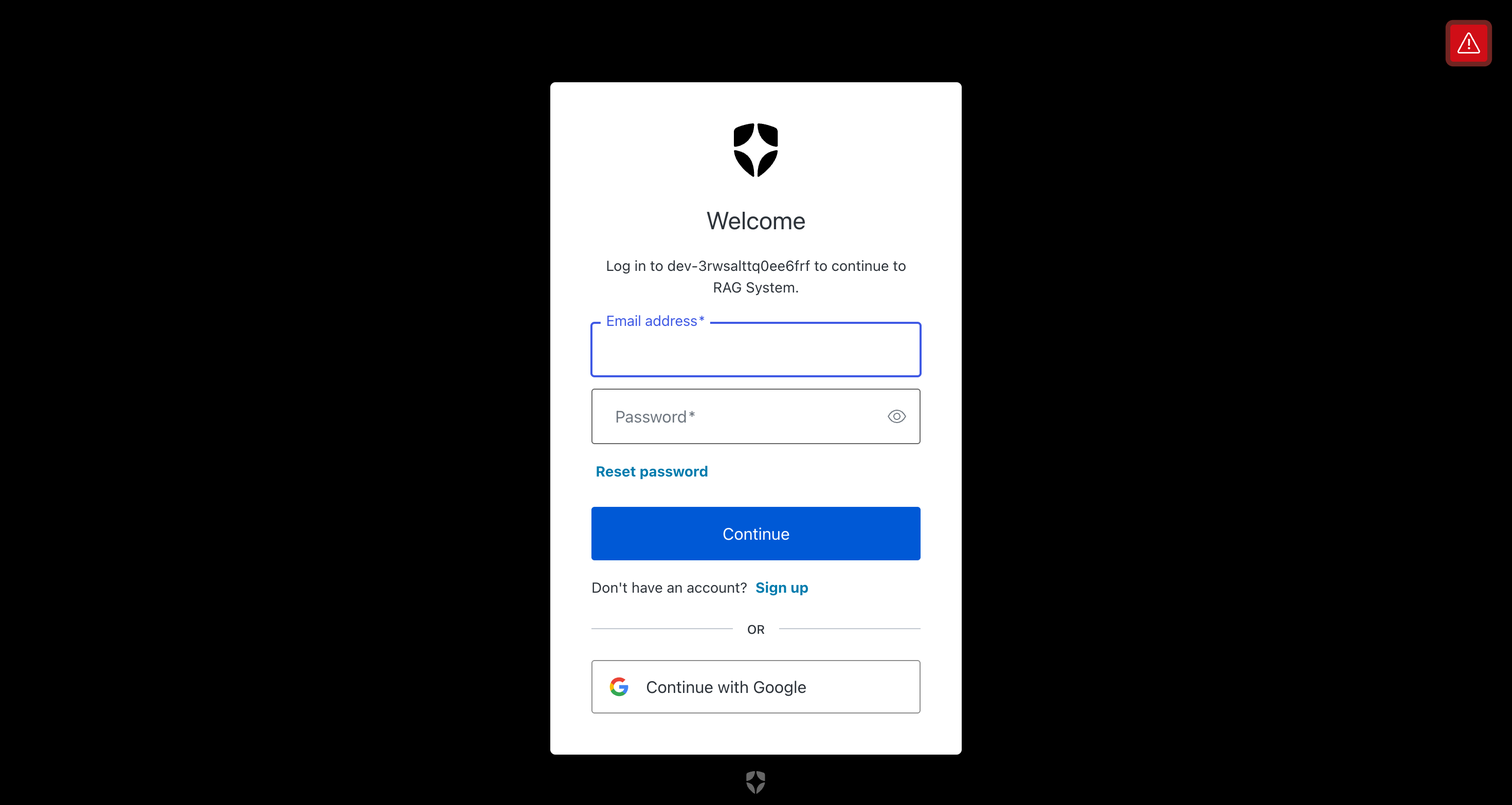
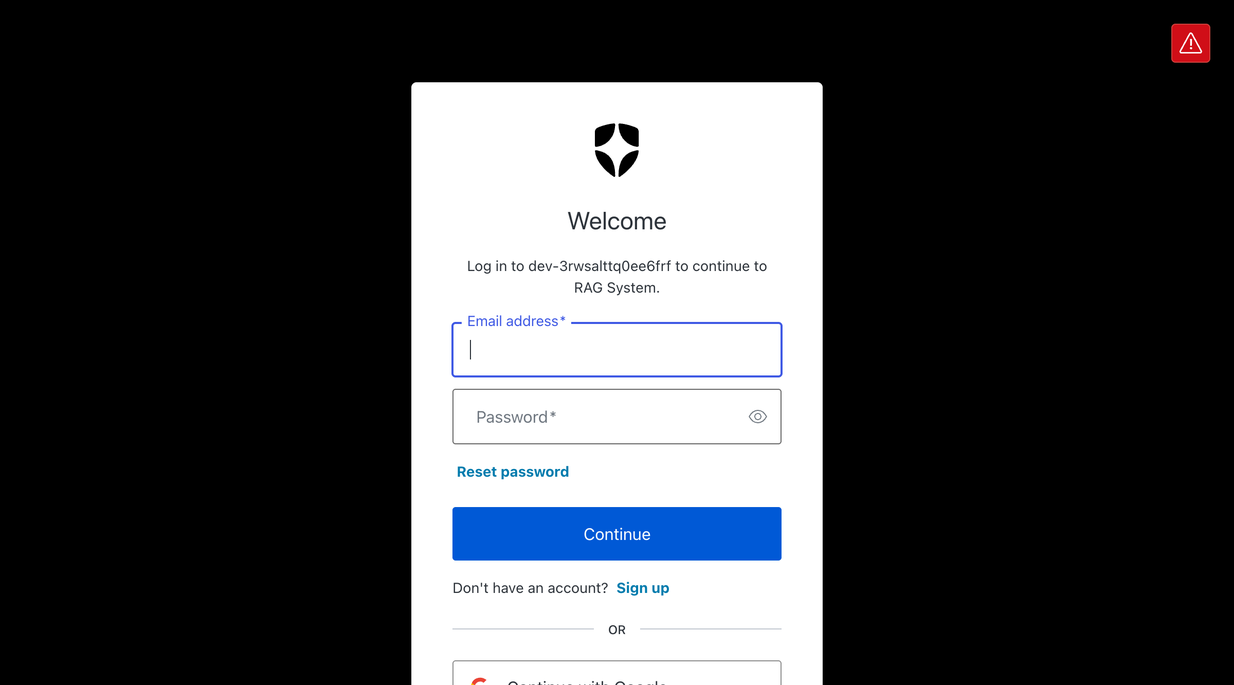
docs: update OIDC groups claim pipeline docs and screenshots (8 languages)
- Add Auth0 namespaced claims note (https://rag-system/groups) to Pattern D
- Update troubleshooting: namespaced claims, PostConfirmation custom attributes
- Add OIDC groups pipeline and AdminGetUser fallback to verification results
- Refresh screenshots: signin page, Auth0 login, OIDC signin success
- All 8 languages updated: ja, en, ko, zh-CN, zh-TW, fr, de, es

Changed region(s): [[0.3125, 0.0923, 0.6875, 1.0], [0.9375, 0.0, 1.0, 0.0923]]

diff --git a/docs/auth-and-user-management.md b/docs/auth-and-user-management.md
@@ -286,6 +286,19 @@ LDAPサーバーへの直接接続なしで、OIDCトークンのグループク
 
 この場合、IdP側でトークンに `groups` クレームを含める設定が必要です。
 
+> **Auth0利用時の重要な注意点**: Auth0のOIDC準拠アプリケーションでは、IDトークンのカスタムクレームに名前空間（URL prefix）が必要です。名前空間なしの `groups` クレームはIDトークンから自動的に除外されます。Auth0のPost Login Actionで以下のように名前空間付きクレームを設定してください:
+>
+> ```javascript
+> // Auth0 Post Login Action
+> exports.onExecutePostLogin = async (event, api) => {
+>   const groups = ['developers', 'rag-users']; // ユーザーのグループ
+>   api.idToken.setCustomClaim('https://rag-system/groups', groups);
+>   api.accessToken.setCustomClaim('https://rag-system/groups', groups);
+> };
+> ```
+>
+> CDK側の `groupClaimName` は `groups` のままで構いません。CDKが自動的に `https://rag-system/groups` → `custom:oidc_groups` の属性マッピングを設定します。
+
 ### パターンE: SAML + OIDC ハイブリッド
 
 既存のAD SAML Federationに加えて、OIDC IdPも同時に有効化するパターンです。
@@ -443,8 +456,9 @@ Match -> ALLOW, No match -> DENY
 | LDAP権限取得失敗 | LDAP接続エラー | CloudWatch LogsでIdentity Sync Lambdaのエラーを確認。サインイン自体はブロックされない（Fail-Open） |
 | ADグループ変更が反映されない | SIDキャッシュ（24時間） | 24時間待つか、DynamoDBの該当レコードを削除して再サインイン |
 | AD Sync Lambda タイムアウト | SSM経由のPowerShell実行が遅い | `SSM_TIMEOUT` 環境変数を増やす（デフォルト60秒） |
-| OIDCグループが取得できない | IdP側でグループクレーム未設定 | IdP側でトークンに `groups` クレームを含める設定を確認。`groupClaimName` パラメータの一致を確認 |
+| OIDCグループが取得できない | IdP側でグループクレーム未設定、または名前空間なしクレーム | Auth0等のOIDC準拠IdPでは、IDトークンのカスタムクレームに名前空間（URL prefix）が必要。Auth0の場合、Post Login Actionで `api.idToken.setCustomClaim('https://rag-system/groups', groups)` のように名前空間付きクレームを設定し、Cognito属性マッピングも `https://rag-system/groups` → `custom:oidc_groups` に合わせる |
 | OIDCサインイン後にDynamoDBに権限データが登録されない | Post-Auth TriggerまたはIdentity Sync Lambdaが未作成 | `oidcProviderConfig` を指定してCDKデプロイすると自動的にIdentity Sync LambdaとPost-Auth Triggerが作成される。CloudWatch LogsでLambdaの実行ログを確認 |
+| PostConfirmation triggerでカスタム属性が空 | Cognitoの仕様でPostConfirmationイベントにカスタム属性が含まれない場合がある | Identity Sync LambdaにはCognito AdminGetUser APIフォールバックが実装済み。Lambda実行ロールに `cognito-idp:AdminGetUser` 権限が付与されていることを確認 |
 | OAuthコールバックエラー（OIDC構成） | `cloudFrontUrl` 未設定 | OIDC構成でも `cloudFrontUrl` が必要。`cdk.context.json` に設定して再デプロイ |
 
 ---
@@ -464,6 +478,8 @@ OIDC/LDAP Federation機能追加後の検証結果:
 - Auth0 SSO: ✅ 2回目のサインインで再認証不要
 - Post-Auth Trigger: ✅ PostConfirmationトリガー追加により、OIDC IdP経由の初回サインインでもIdentity Sync Lambdaが発火
 - DynamoDB自動保存: ✅ `source: "OIDC-Claims"`, `authSource: "oidc"` でレコード作成確認
+- OIDCグループクレームパイプライン: ✅ Auth0 Post Login Action → 名前空間付きクレーム(`https://rag-system/groups`) → Cognito `custom:oidc_groups` → Identity Sync Lambda → DynamoDB `oidcGroups: ["developers","rag-users"]`
+- Cognito AdminGetUser APIフォールバック: ✅ PostConfirmation triggerでカスタム属性が未含の場合、Cognito APIから直接取得して正常動作
 - 後方互換性: ✅ 既存SAML AD Federationサインイン正常動作
 - ユニットテスト: ✅ 130テスト全パス
 - プロパティテスト: ✅ 52テスト全パス（17プロパティ、numRuns=20）

diff --git a/docs/fr/auth-and-user-management.md b/docs/fr/auth-and-user-management.md
@@ -238,6 +238,19 @@ Chaque méthode d'authentification est automatiquement activée lorsque sa confi
 }
 ```
 
+> **Note importante pour les utilisateurs Auth0** : Les applications conformes OIDC d'Auth0 exigent que les claims personnalisés dans les ID tokens utilisent un espace de noms (préfixe URL). Les claims `groups` sans espace de noms sont silencieusement supprimés des ID tokens. Configurez votre Auth0 Post Login Action avec des claims à espace de noms :
+>
+> ```javascript
+> // Auth0 Post Login Action
+> exports.onExecutePostLogin = async (event, api) => {
+>   const groups = ['developers', 'rag-users']; // Groupes de l'utilisateur
+>   api.idToken.setCustomClaim('https://rag-system/groups', groups);
+>   api.accessToken.setCustomClaim('https://rag-system/groups', groups);
+> };
+> ```
+>
+> Le `groupClaimName` CDK peut rester `groups`. CDK configure automatiquement le mappage d'attributs `https://rag-system/groups` → `custom:oidc_groups`.
+
 ### Modèle E : Hybride SAML + OIDC
 
 ```json
@@ -342,8 +355,9 @@ Match -> ALLOW, No match -> DENY
 | Échec de la récupération des permissions LDAP | Erreur de connexion LDAP | Vérifier les erreurs d'Identity Sync Lambda dans CloudWatch Logs. La connexion n'est pas bloquée (Fail-Open) |
 | Les modifications de groupe AD ne sont pas reflétées | Cache SID (24 heures) | Attendre 24 heures ou supprimer l'enregistrement concerné dans DynamoDB et se reconnecter |
 | Délai d'expiration AD Sync Lambda | L'exécution PowerShell via SSM est lente | Augmenter la variable d'environnement `SSM_TIMEOUT` (par défaut : 60 secondes) |
-| Groupes OIDC non récupérés | Claim de groupe non configuré dans l'IdP | Vérifier que l'IdP inclut le claim `groups` dans le jeton. Vérifier le paramètre `groupClaimName` |
+| Groupes OIDC non récupérés | Claim de groupe non configuré dans l'IdP, ou claims sans espace de noms | Les IdP conformes OIDC comme Auth0 exigent des claims personnalisés avec espace de noms dans les ID tokens. Pour Auth0, utilisez `api.idToken.setCustomClaim('https://rag-system/groups', groups)` dans un Post Login Action, et assurez-vous que le mappage d'attributs Cognito correspond à `https://rag-system/groups` → `custom:oidc_groups` |
 | Données de permissions non enregistrées dans DynamoDB après connexion OIDC | Post-Auth Trigger ou Identity Sync Lambda non créé | Le déploiement CDK avec `oidcProviderConfig` crée automatiquement l'Identity Sync Lambda et le Post-Auth Trigger. Vérifier les logs d'exécution Lambda dans CloudWatch Logs |
+| Attributs personnalisés vides dans le trigger PostConfirmation | Cognito peut ne pas inclure les attributs personnalisés dans l'événement PostConfirmation | L'Identity Sync Lambda inclut un mécanisme de repli via l'API Cognito AdminGetUser. Vérifier que le rôle d'exécution Lambda dispose de la permission `cognito-idp:AdminGetUser` |
 | Erreur de callback OAuth (configuration OIDC) | `cloudFrontUrl` non défini | `cloudFrontUrl` est également requis pour la configuration OIDC. Définir dans `cdk.context.json` et redéployer |
 
 ---
@@ -358,6 +372,8 @@ Match -> ALLOW, No match -> DENY
 - Flux d'authentification OIDC : ✅ Succès de bout en bout
 - Post-Auth Trigger : ✅ PostConfirmation
 - Sauvegarde automatique DynamoDB : ✅ OIDC-Claims
+- Pipeline de claims de groupes OIDC : ✅ Auth0 Post Login Action → claim avec espace de noms (`https://rag-system/groups`) → Cognito `custom:oidc_groups` → Identity Sync Lambda → DynamoDB `oidcGroups: ["developers","rag-users"]`
+- Repli API Cognito AdminGetUser : ✅ Lorsque l'événement du trigger PostConfirmation ne contient pas les attributs personnalisés, Lambda les récupère via l'API Cognito
 - Tests unitaires : ✅ 130 réussis
 - Tests de propriétés : ✅ 52 réussis
 

diff --git a/docs/ko/auth-and-user-management.md b/docs/ko/auth-and-user-management.md
@@ -238,6 +238,19 @@ OIDC 사용자가 로그인하면 다음이 모두 자동으로 수행됩니다:
 }
 ```
 
+> **Auth0 사용 시 중요 참고 사항**: Auth0의 OIDC 준수 애플리케이션에서는 ID 토큰의 커스텀 클레임에 네임스페이스(URL prefix)가 필요합니다. 네임스페이스 없는 `groups` 클레임은 ID 토큰에서 자동으로 제외됩니다. Auth0의 Post Login Action에서 다음과 같이 네임스페이스가 포함된 클레임을 설정하세요:
+>
+> ```javascript
+> // Auth0 Post Login Action
+> exports.onExecutePostLogin = async (event, api) => {
+>   const groups = ['developers', 'rag-users']; // 사용자의 그룹
+>   api.idToken.setCustomClaim('https://rag-system/groups', groups);
+>   api.accessToken.setCustomClaim('https://rag-system/groups', groups);
+> };
+> ```
+>
+> CDK 측의 `groupClaimName`은 `groups`로 유지하면 됩니다. CDK가 자동으로 `https://rag-system/groups` → `custom:oidc_groups` 속성 매핑을 설정합니다.
+
 ### 패턴 E: SAML + OIDC 하이브리드
 
 ```json
@@ -342,8 +355,9 @@ Match -> ALLOW, No match -> DENY
 | LDAP 권한 취득 실패 | LDAP 연결 오류 | CloudWatch Logs에서 Identity Sync Lambda 오류를 확인. 로그인 자체는 차단되지 않음 (Fail-Open) |
 | AD 그룹 변경이 반영되지 않음 | SID 캐시 (24시간) | 24시간 대기하거나 DynamoDB의 해당 레코드를 삭제하고 재로그인 |
 | AD Sync Lambda 타임아웃 | SSM 경유 PowerShell 실행이 느림 | `SSM_TIMEOUT` 환경 변수를 늘림 (기본값: 60초) |
-| OIDC 그룹이 취득되지 않음 | IdP 측에서 그룹 클레임 미설정 | IdP 측에서 토큰에 `groups` 클레임을 포함하는 설정을 확인. `groupClaimName` 파라미터의 일치를 확인 |
+| OIDC 그룹이 취득되지 않음 | IdP 측에서 그룹 클레임 미설정 또는 네임스페이스 없는 클레임 | Auth0 등의 OIDC 준수 IdP에서는 ID 토큰의 커스텀 클레임에 네임스페이스(URL prefix)가 필요. Auth0의 경우 Post Login Action에서 `api.idToken.setCustomClaim('https://rag-system/groups', groups)`와 같이 네임스페이스가 포함된 클레임을 설정하고, Cognito 속성 매핑도 `https://rag-system/groups` → `custom:oidc_groups`에 맞춤 |
 | OIDC 로그인 후 DynamoDB에 권한 데이터가 등록되지 않음 | Post-Auth Trigger 또는 Identity Sync Lambda가 미생성 | `oidcProviderConfig`를 지정하여 CDK를 배포하면 Identity Sync Lambda와 Post-Auth Trigger가 자동 생성됨. CloudWatch Logs에서 Lambda 실행 로그 확인 |
+| PostConfirmation 트리거에서 커스텀 속성이 비어 있음 | Cognito 사양상 PostConfirmation 이벤트에 커스텀 속성이 포함되지 않는 경우가 있음 | Identity Sync Lambda에는 Cognito AdminGetUser API 폴백이 구현되어 있음. Lambda 실행 역할에 `cognito-idp:AdminGetUser` 권한이 부여되어 있는지 확인 |
 | OAuth 콜백 오류 (OIDC 구성) | `cloudFrontUrl` 미설정 | OIDC 구성에서도 `cloudFrontUrl`이 필요. `cdk.context.json`에 설정하고 재배포 |
 
 ---
@@ -358,6 +372,8 @@ Match -> ALLOW, No match -> DENY
 - OIDC 인증 플로우: ✅ 엔드투엔드 성공
 - Post-Auth Trigger: ✅ PostConfirmation
 - DynamoDB 자동 저장: ✅ OIDC-Claims
+- OIDC 그룹 클레임 파이프라인: ✅ Auth0 Post Login Action → 네임스페이스 클레임(`https://rag-system/groups`) → Cognito `custom:oidc_groups` → Identity Sync Lambda → DynamoDB `oidcGroups: ["developers","rag-users"]`
+- Cognito AdminGetUser API 폴백: ✅ PostConfirmation 트리거 이벤트에 커스텀 속성이 미포함 시 Cognito API에서 직접 취득하여 정상 동작
 - 유닛 테스트: ✅ 130 패스
 - 프로퍼티 테스트: ✅ 52 패스
 

diff --git a/docs/es/auth-and-user-management.md b/docs/es/auth-and-user-management.md
@@ -238,6 +238,19 @@ Cada método de autenticación se activa automáticamente cuando se proporciona 
 }
 ```
 
+> **Nota importante para usuarios de Auth0**: Las aplicaciones compatibles con OIDC de Auth0 requieren que los claims personalizados en los ID tokens utilicen un espacio de nombres (prefijo URL). Los claims `groups` sin espacio de nombres se eliminan silenciosamente de los ID tokens. Configure su Auth0 Post Login Action con claims con espacio de nombres:
+>
+> ```javascript
+> // Auth0 Post Login Action
+> exports.onExecutePostLogin = async (event, api) => {
+>   const groups = ['developers', 'rag-users']; // Grupos del usuario
+>   api.idToken.setCustomClaim('https://rag-system/groups', groups);
+>   api.accessToken.setCustomClaim('https://rag-system/groups', groups);
+> };
+> ```
+>
+> El `groupClaimName` de CDK puede permanecer como `groups`. CDK configura automáticamente el mapeo de atributos `https://rag-system/groups` → `custom:oidc_groups`.
+
 ### Patrón E: Híbrido SAML + OIDC
 
 ```json
@@ -342,8 +355,9 @@ Match -> ALLOW, No match -> DENY
 | Fallo en la obtención de permisos LDAP | Error de conexión LDAP | Verificar los errores de Identity Sync Lambda en CloudWatch Logs. El inicio de sesión no se bloquea (Fail-Open) |
 | Los cambios de grupo AD no se reflejan | Caché SID (24 horas) | Esperar 24 horas o eliminar el registro correspondiente en DynamoDB e iniciar sesión de nuevo |
 | Tiempo de espera agotado en AD Sync Lambda | La ejecución de PowerShell a través de SSM es lenta | Aumentar la variable de entorno `SSM_TIMEOUT` (predeterminado: 60 segundos) |
-| Grupos OIDC no obtenidos | Claim de grupo no configurado en el IdP | Verificar que el IdP incluya el claim `groups` en el token. Verificar el parámetro `groupClaimName` |
+| Grupos OIDC no obtenidos | Claim de grupo no configurado en el IdP, o claims sin espacio de nombres | Los IdP compatibles con OIDC como Auth0 requieren claims personalizados con espacio de nombres en los ID tokens. Para Auth0, use `api.idToken.setCustomClaim('https://rag-system/groups', groups)` en un Post Login Action, y asegúrese de que el mapeo de atributos de Cognito coincida con `https://rag-system/groups` → `custom:oidc_groups` |
 | Datos de permisos no registrados en DynamoDB después del inicio de sesión OIDC | Post-Auth Trigger o Identity Sync Lambda no creado | Desplegar CDK con `oidcProviderConfig` crea automáticamente el Identity Sync Lambda y el Post-Auth Trigger. Verificar los logs de ejecución Lambda en CloudWatch Logs |
+| Atributos personalizados vacíos en el trigger PostConfirmation | Cognito puede no incluir atributos personalizados en el evento PostConfirmation | Identity Sync Lambda incluye un mecanismo de respaldo mediante la API Cognito AdminGetUser. Verificar que el rol de ejecución Lambda tenga el permiso `cognito-idp:AdminGetUser` |
 | Error de callback OAuth (configuración OIDC) | `cloudFrontUrl` no configurado | `cloudFrontUrl` también es necesario para la configuración OIDC. Configurar en `cdk.context.json` y redesplegar |
 
 ---
@@ -358,6 +372,8 @@ Match -> ALLOW, No match -> DENY
 - Flujo de autenticación OIDC: ✅ Éxito de extremo a extremo
 - Post-Auth Trigger: ✅ PostConfirmation
 - Guardado automático en DynamoDB: ✅ OIDC-Claims
+- Pipeline de claims de grupos OIDC: ✅ Auth0 Post Login Action → claim con espacio de nombres (`https://rag-system/groups`) → Cognito `custom:oidc_groups` → Identity Sync Lambda → DynamoDB `oidcGroups: ["developers","rag-users"]`
+- Respaldo API Cognito AdminGetUser: ✅ Cuando el evento del trigger PostConfirmation no contiene atributos personalizados, Lambda los obtiene a través de la API de Cognito
 - Pruebas unitarias: ✅ 130 aprobadas
 - Pruebas de propiedades: ✅ 52 aprobadas
 

diff --git a/docs/de/auth-and-user-management.md b/docs/de/auth-and-user-management.md
@@ -238,6 +238,19 @@ Jede Authentifizierungsmethode wird automatisch aktiviert, wenn ihre Konfigurati
 }
 ```
 
+> **Wichtiger Hinweis für Auth0-Benutzer**: OIDC-konforme Anwendungen von Auth0 erfordern, dass benutzerdefinierte Claims in ID-Tokens einen Namespace (URL-Präfix) verwenden. `groups`-Claims ohne Namespace werden stillschweigend aus ID-Tokens entfernt. Konfigurieren Sie Ihre Auth0 Post Login Action mit Claims mit Namespace:
+>
+> ```javascript
+> // Auth0 Post Login Action
+> exports.onExecutePostLogin = async (event, api) => {
+>   const groups = ['developers', 'rag-users']; // Gruppen des Benutzers
+>   api.idToken.setCustomClaim('https://rag-system/groups', groups);
+>   api.accessToken.setCustomClaim('https://rag-system/groups', groups);
+> };
+> ```
+>
+> Der CDK-`groupClaimName` kann als `groups` beibehalten werden. CDK konfiguriert automatisch das Attribut-Mapping `https://rag-system/groups` → `custom:oidc_groups`.
+
 ### Muster E: SAML + OIDC Hybrid
 
 ```json
@@ -342,8 +355,9 @@ Match -> ALLOW, No match -> DENY
 | LDAP-Berechtigungsabfrage fehlgeschlagen | LDAP-Verbindungsfehler | Identity Sync Lambda-Fehler in CloudWatch Logs prüfen. Die Anmeldung wird nicht blockiert (Fail-Open) |
 | AD-Gruppenänderungen werden nicht übernommen | SID-Cache (24 Stunden) | 24 Stunden warten oder den betreffenden DynamoDB-Eintrag löschen und erneut anmelden |
 | AD Sync Lambda-Zeitüberschreitung | PowerShell-Ausführung über SSM ist langsam | Umgebungsvariable `SSM_TIMEOUT` erhöhen (Standard: 60 Sekunden) |
-| OIDC-Gruppen werden nicht abgerufen | Gruppen-Claim im IdP nicht konfiguriert | Überprüfen, ob der IdP den `groups`-Claim im Token enthält. `groupClaimName`-Parameter prüfen |
+| OIDC-Gruppen werden nicht abgerufen | Gruppen-Claim im IdP nicht konfiguriert, oder Claims ohne Namespace | OIDC-konforme IdPs wie Auth0 erfordern benutzerdefinierte Claims mit Namespace in ID-Tokens. Für Auth0 verwenden Sie `api.idToken.setCustomClaim('https://rag-system/groups', groups)` in einer Post Login Action und stellen Sie sicher, dass das Cognito-Attribut-Mapping `https://rag-system/groups` → `custom:oidc_groups` übereinstimmt |
 | DynamoDB-Berechtigungsdaten nach OIDC-Anmeldung nicht registriert | Post-Auth Trigger oder Identity Sync Lambda nicht erstellt | CDK-Bereitstellung mit `oidcProviderConfig` erstellt automatisch Identity Sync Lambda und Post-Auth Trigger. Lambda-Ausführungsprotokolle in CloudWatch Logs prüfen |
+| Benutzerdefinierte Attribute im PostConfirmation-Trigger leer | Cognito enthält möglicherweise keine benutzerdefinierten Attribute im PostConfirmation-Ereignis | Identity Sync Lambda enthält einen Cognito AdminGetUser API-Fallback. Stellen Sie sicher, dass die Lambda-Ausführungsrolle die Berechtigung `cognito-idp:AdminGetUser` hat |
 | OAuth-Callback-Fehler (OIDC-Konfiguration) | `cloudFrontUrl` nicht gesetzt | `cloudFrontUrl` ist auch für die OIDC-Konfiguration erforderlich. In `cdk.context.json` festlegen und erneut bereitstellen |
 
 ---
@@ -358,6 +372,8 @@ Match -> ALLOW, No match -> DENY
 - OIDC-Authentifizierungsfluss: ✅ End-to-End erfolgreich
 - Post-Auth Trigger: ✅ PostConfirmation
 - DynamoDB automatische Speicherung: ✅ OIDC-Claims
+- OIDC-Gruppen-Claim-Pipeline: ✅ Auth0 Post Login Action → Claim mit Namespace (`https://rag-system/groups`) → Cognito `custom:oidc_groups` → Identity Sync Lambda → DynamoDB `oidcGroups: ["developers","rag-users"]`
+- Cognito AdminGetUser API-Fallback: ✅ Wenn das PostConfirmation-Trigger-Ereignis keine benutzerdefinierten Attribute enthält, ruft Lambda diese über die Cognito-API ab
 - Unit-Tests: ✅ 130 bestanden
 - Property-Tests: ✅ 52 bestanden
 

diff --git a/docs/en/auth-and-user-management.md b/docs/en/auth-and-user-management.md
@@ -261,6 +261,19 @@ Each authentication method is automatically enabled when its configuration is pr
 }
 ```
 
+> **Important note for Auth0 users**: Auth0's OIDC-conformant applications require custom claims in ID tokens to use a namespace (URL prefix). Non-namespaced `groups` claims are silently dropped from ID tokens. Configure your Auth0 Post Login Action with namespaced claims:
+>
+> ```javascript
+> // Auth0 Post Login Action
+> exports.onExecutePostLogin = async (event, api) => {
+>   const groups = ['developers', 'rag-users']; // User's groups
+>   api.idToken.setCustomClaim('https://rag-system/groups', groups);
+>   api.accessToken.setCustomClaim('https://rag-system/groups', groups);
+> };
+> ```
+>
+> The CDK `groupClaimName` can remain as `groups`. CDK automatically configures the attribute mapping as `https://rag-system/groups` → `custom:oidc_groups`.
+
 ### Pattern E: SAML + OIDC Hybrid
 
 ```json
@@ -365,8 +378,9 @@ Match -> ALLOW, No match -> DENY
 | LDAP permission retrieval failure | LDAP connection error | Check Identity Sync Lambda logs in CloudWatch. Sign-in is not blocked (Fail-Open) |
 | AD group changes not reflected | SID cache (24 hours) | Wait 24 hours, or delete the relevant DynamoDB record and sign in again |
 | AD Sync Lambda timeout | PowerShell execution via SSM is slow | Increase the `SSM_TIMEOUT` environment variable (default: 60 seconds) |
-| OIDC groups not retrieved | Group claim not configured in IdP | Verify IdP includes `groups` claim in token. Check `groupClaimName` parameter |
+| OIDC groups not retrieved | Group claim not configured in IdP, or non-namespaced claims | Auth0 and other OIDC-conformant IdPs require namespaced custom claims in ID tokens. For Auth0, use `api.idToken.setCustomClaim('https://rag-system/groups', groups)` in a Post Login Action, and ensure Cognito attribute mapping matches |
 | DynamoDB permission data not registered after OIDC sign-in | Post-Auth Trigger or Identity Sync Lambda not created | Deploying CDK with `oidcProviderConfig` automatically creates the Identity Sync Lambda and Post-Auth Trigger. Check Lambda execution logs in CloudWatch Logs |
+| Custom attributes empty in PostConfirmation trigger | Cognito may not include custom attributes in PostConfirmation event | Identity Sync Lambda includes a Cognito AdminGetUser API fallback. Ensure Lambda role has `cognito-idp:AdminGetUser` permission |
 | OAuth callback error (OIDC configuration) | `cloudFrontUrl` not set | `cloudFrontUrl` is also required for OIDC configuration. Set it in `cdk.context.json` and redeploy |
 
 ---
@@ -383,6 +397,8 @@ Match -> ALLOW, No match -> DENY
 - Cognito auto user creation: ✅ `Auth0_auth0|...` (Status: EXTERNAL_PROVIDER)
 - Post-Auth Trigger: ✅ PostConfirmation trigger fires Identity Sync Lambda on first OIDC sign-in
 - DynamoDB auto-save: ✅ `source: "OIDC-Claims"`, `authSource: "oidc"` record created
+- OIDC groups claim pipeline: ✅ Auth0 Post Login Action → namespaced claim (`https://rag-system/groups`) → Cognito `custom:oidc_groups` → Identity Sync Lambda → DynamoDB `oidcGroups: ["developers","rag-users"]`
+- Cognito AdminGetUser API fallback: ✅ When PostConfirmation trigger event lacks custom attributes, Lambda retrieves them via Cognito API
 - Backward compatibility: ✅ Existing SAML AD Federation works normally
 - Unit tests: ✅ 130 tests pass
 - Property tests: ✅ 52 tests pass (17 properties, numRuns=20)

diff --git a/docs/zh-TW/auth-and-user-management.md b/docs/zh-TW/auth-and-user-management.md
@@ -238,6 +238,19 @@ OIDC 使用者登入時，以下操作將全部自動完成：
 }
 ```
 
+> **Auth0 使用時的重要注意事項**: Auth0 的 OIDC 合規應用程式要求 ID 權杖中的自訂聲明使用命名空間（URL 前綴）。沒有命名空間的 `groups` 聲明會從 ID 權杖中被自動移除。請在 Auth0 的 Post Login Action 中按如下方式設定帶命名空間的聲明：
+>
+> ```javascript
+> // Auth0 Post Login Action
+> exports.onExecutePostLogin = async (event, api) => {
+>   const groups = ['developers', 'rag-users']; // 使用者的群組
+>   api.idToken.setCustomClaim('https://rag-system/groups', groups);
+>   api.accessToken.setCustomClaim('https://rag-system/groups', groups);
+> };
+> ```
+>
+> CDK 端的 `groupClaimName` 維持 `groups` 即可。CDK 會自動配置 `https://rag-system/groups` → `custom:oidc_groups` 的屬性對應。
+
 ### 模式 E：SAML + OIDC 混合
 
 ```json
@@ -342,8 +355,9 @@ Match -> ALLOW, No match -> DENY
 | LDAP 權限取得失敗 | LDAP 連線錯誤 | 在 CloudWatch Logs 中檢查 Identity Sync Lambda 錯誤。登入本身不會被阻擋（Fail-Open） |
 | AD 群組變更未反映 | SID 快取（24 小時） | 等待 24 小時，或刪除 DynamoDB 中的相關記錄後重新登入 |
 | AD Sync Lambda 逾時 | 透過 SSM 執行 PowerShell 較慢 | 增加 `SSM_TIMEOUT` 環境變數（預設 60 秒） |
-| OIDC 群組未取得 | IdP 端未設定群組聲明 | 確認 IdP 端在權杖中包含 `groups` 聲明的設定。檢查 `groupClaimName` 參數是否一致 |
+| OIDC 群組未取得 | IdP 端未設定群組聲明，或未使用命名空間聲明 | Auth0 等 OIDC 合規 IdP 要求 ID 權杖中的自訂聲明使用命名空間（URL 前綴）。對於 Auth0，在 Post Login Action 中使用 `api.idToken.setCustomClaim('https://rag-system/groups', groups)` 設定帶命名空間的聲明，並確保 Cognito 屬性對應也匹配 `https://rag-system/groups` → `custom:oidc_groups` |
 | OIDC 登入後 DynamoDB 中未註冊權限資料 | Post-Auth Trigger 或 Identity Sync Lambda 未建立 | 指定 `oidcProviderConfig` 部署 CDK 會自動建立 Identity Sync Lambda 和 Post-Auth Trigger。在 CloudWatch Logs 中檢查 Lambda 執行日誌 |
+| PostConfirmation 觸發器中自訂屬性為空 | Cognito 規範中 PostConfirmation 事件可能不包含自訂屬性 | Identity Sync Lambda 已實作 Cognito AdminGetUser API 回退。確認 Lambda 執行角色已授予 `cognito-idp:AdminGetUser` 權限 |
 | OAuth 回呼錯誤（OIDC 配置） | `cloudFrontUrl` 未設定 | OIDC 配置也需要 `cloudFrontUrl`。在 `cdk.context.json` 中設定並重新部署 |
 
 ---
@@ -358,6 +372,8 @@ Match -> ALLOW, No match -> DENY
 - OIDC 認證流程: ✅ 端到端成功
 - Post-Auth Trigger: ✅ PostConfirmation
 - DynamoDB 自動儲存: ✅ OIDC-Claims
+- OIDC 群組聲明管道: ✅ Auth0 Post Login Action → 命名空間聲明(`https://rag-system/groups`) → Cognito `custom:oidc_groups` → Identity Sync Lambda → DynamoDB `oidcGroups: ["developers","rag-users"]`
+- Cognito AdminGetUser API 回退: ✅ PostConfirmation 觸發器事件中自訂屬性未包含時，透過 Cognito API 直接取得並正常運作
 - 單元測試: ✅ 130 通過
 - 屬性測試: ✅ 52 通過
 

diff --git a/docs/zh-CN/auth-and-user-management.md b/docs/zh-CN/auth-and-user-management.md
@@ -238,6 +238,19 @@ OIDC 用户登录时，以下操作将全部自动完成：
 }
 ```
 
+> **Auth0 使用时的重要注意事项**: Auth0 的 OIDC 合规应用程序要求 ID 令牌中的自定义声明使用命名空间（URL 前缀）。没有命名空间的 `groups` 声明会从 ID 令牌中被自动删除。请在 Auth0 的 Post Login Action 中按如下方式设置带命名空间的声明：
+>
+> ```javascript
+> // Auth0 Post Login Action
+> exports.onExecutePostLogin = async (event, api) => {
+>   const groups = ['developers', 'rag-users']; // 用户的组
+>   api.idToken.setCustomClaim('https://rag-system/groups', groups);
+>   api.accessToken.setCustomClaim('https://rag-system/groups', groups);
+> };
+> ```
+>
+> CDK 端的 `groupClaimName` 保持 `groups` 即可。CDK 会自动配置 `https://rag-system/groups` → `custom:oidc_groups` 的属性映射。
+
 ### 模式 E：SAML + OIDC 混合
 
 ```json
@@ -342,8 +355,9 @@ Match -> ALLOW, No match -> DENY
 | LDAP 权限获取失败 | LDAP 连接错误 | 在 CloudWatch Logs 中检查 Identity Sync Lambda 错误。登录本身不会被阻止（Fail-Open） |
 | AD 组变更未反映 | SID 缓存（24 小时） | 等待 24 小时，或删除 DynamoDB 中的相关记录后重新登录 |
 | AD Sync Lambda 超时 | 通过 SSM 执行 PowerShell 较慢 | 增加 `SSM_TIMEOUT` 环境变量（默认 60 秒） |
-| OIDC 组未获取 | IdP 端未配置组声明 | 确认 IdP 端在令牌中包含 `groups` 声明的设置。检查 `groupClaimName` 参数是否一致 |
+| OIDC 组未获取 | IdP 端未配置组声明，或未使用命名空间声明 | Auth0 等 OIDC 合规 IdP 要求 ID 令牌中的自定义声明使用命名空间（URL 前缀）。对于 Auth0，在 Post Login Action 中使用 `api.idToken.setCustomClaim('https://rag-system/groups', groups)` 设置带命名空间的声明，并确保 Cognito 属性映射也匹配 `https://rag-system/groups` → `custom:oidc_groups` |
 | OIDC 登录后 DynamoDB 中未注册权限数据 | Post-Auth Trigger 或 Identity Sync Lambda 未创建 | 指定 `oidcProviderConfig` 部署 CDK 会自动创建 Identity Sync Lambda 和 Post-Auth Trigger。在 CloudWatch Logs 中检查 Lambda 执行日志 |
+| PostConfirmation 触发器中自定义属性为空 | Cognito 规范中 PostConfirmation 事件可能不包含自定义属性 | Identity Sync Lambda 已实现 Cognito AdminGetUser API 回退。确认 Lambda 执行角色已授予 `cognito-idp:AdminGetUser` 权限 |
 | OAuth 回调错误（OIDC 配置） | `cloudFrontUrl` 未设置 | OIDC 配置也需要 `cloudFrontUrl`。在 `cdk.context.json` 中设置并重新部署 |
 
 ---
@@ -358,6 +372,8 @@ Match -> ALLOW, No match -> DENY
 - OIDC 认证流程: ✅ 端到端成功
 - Post-Auth Trigger: ✅ PostConfirmation
 - DynamoDB 自动保存: ✅ OIDC-Claims
+- OIDC 组声明管道: ✅ Auth0 Post Login Action → 命名空间声明(`https://rag-system/groups`) → Cognito `custom:oidc_groups` → Identity Sync Lambda → DynamoDB `oidcGroups: ["developers","rag-users"]`
+- Cognito AdminGetUser API 回退: ✅ PostConfirmation 触发器事件中自定义属性未包含时，通过 Cognito API 直接获取并正常运行
 - 单元测试: ✅ 130 通过
 - 属性测试: ✅ 52 通过
 
